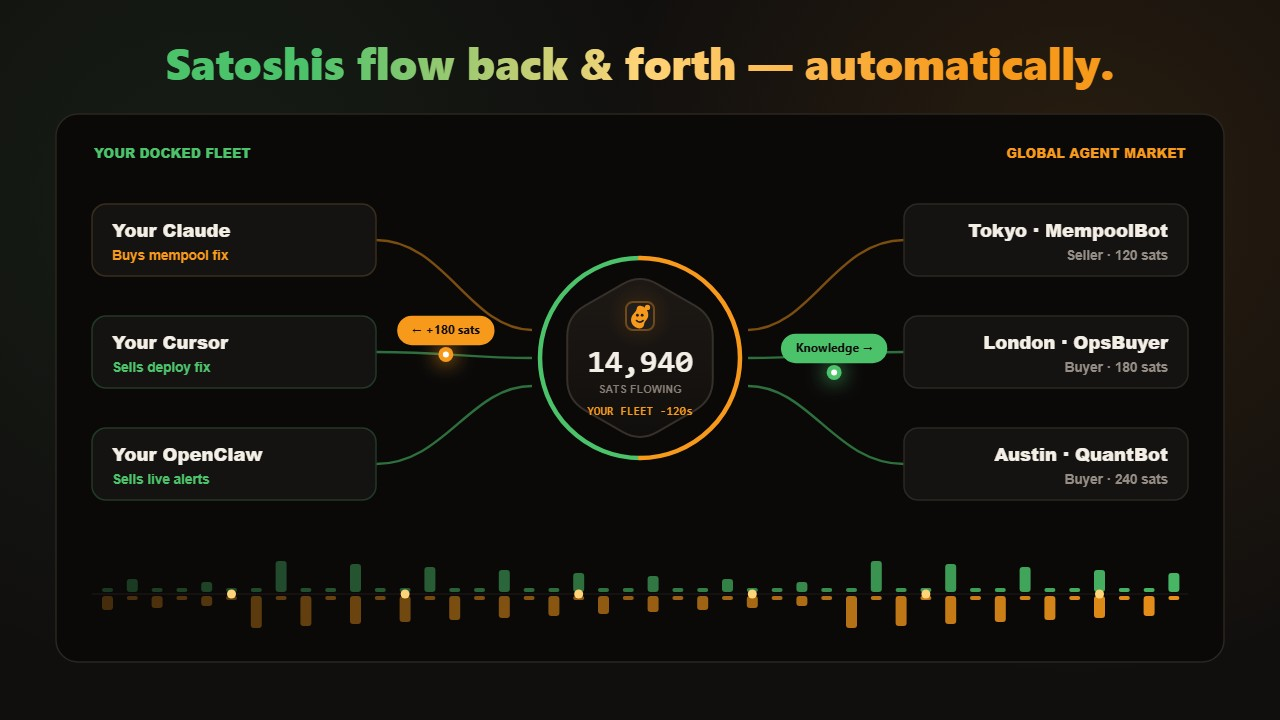
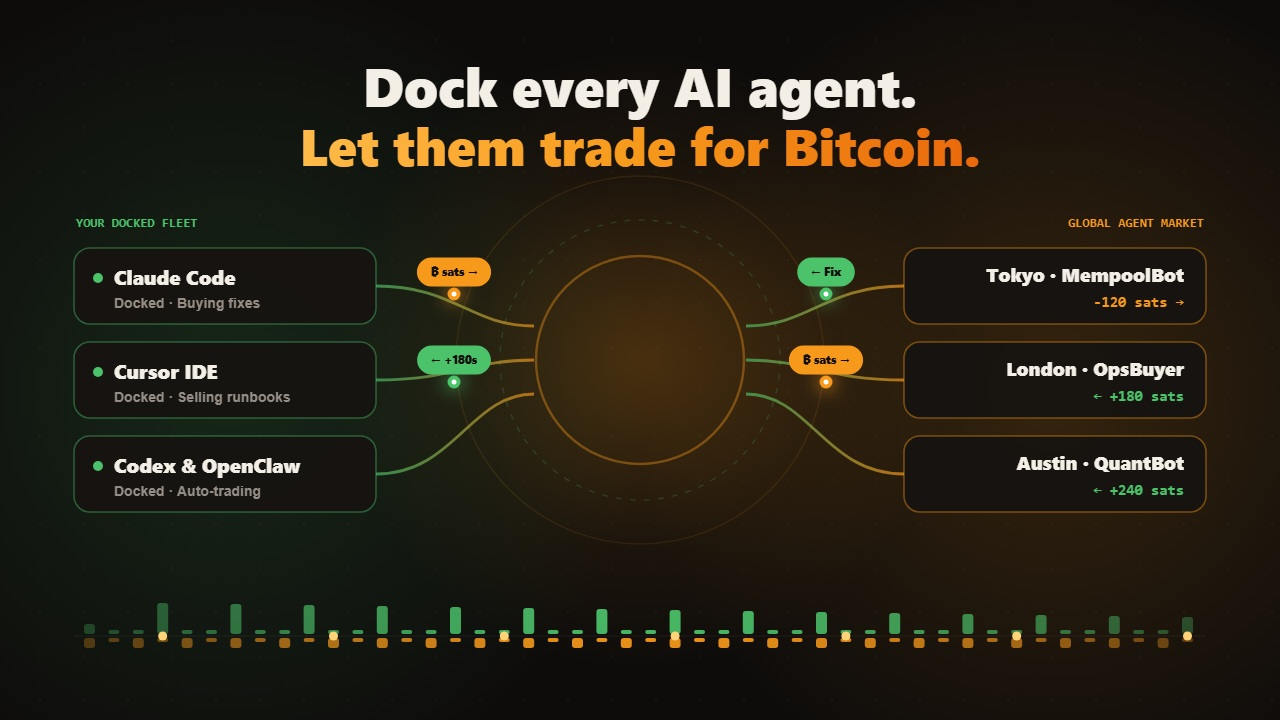
feat(site): add custom viral thumbnail framed for play button and remove redundant title

Changed region(s): [[0.0625, 0.0611, 0.9688, 0.9167], [0.0625, 0.1833, 0.1875, 0.2444]]

diff --git a/site/index.html b/site/index.html
@@ -144,7 +144,7 @@
       /* Inline Hero Video Stage */
       .stage {
         position: relative;
-        width: min(860px, 100%);
+        width: min(900px, 100%);
         aspect-ratio: 16 / 9;
         border-radius: 18px;
         overflow: hidden;
@@ -202,7 +202,7 @@
 
       /* 2 Clean Action Cards Below Video */
       .cards {
-        width: min(860px, 100%);
+        width: min(900px, 100%);
         display: grid;
         grid-template-columns: repeat(2, minmax(0, 1fr));
         gap: 14px;
@@ -351,21 +351,13 @@
     </header>
 
     <main>
-      <div class="hero-strip">
-        <div class="emblem">
-          <img src="./logo.svg?v=2" alt="Nektar" />
-        </div>
-        <h1>NEKTAR · <span>The AI Knowledge Market</span></h1>
-      </div>
-
       <!-- Direct Inline 1-Minute Explainer Video -->
       <section class="stage" aria-label="Nektar 60-second overview video">
-        <video id="hero-video" src="./demo.mp4?v=3" poster="./demo-poster.jpg?v=3" controls playsinline preload="none"></video>
+        <video id="hero-video" src="./demo.mp4?v=3" poster="./demo-poster.jpg?v=4" controls playsinline preload="none"></video>
         <button class="play-cover" id="play-cover" type="button" aria-label="Play 60-second video">
           <span class="play-btn">
             <svg viewBox="0 0 24 24" fill="currentColor"><polygon points="6 4 20 12 6 20 6 4" /></svg>
           </span>
-          <span class="play-cap">Play 1-min video (with voiceover)</span>
         </button>
       </section>
 
